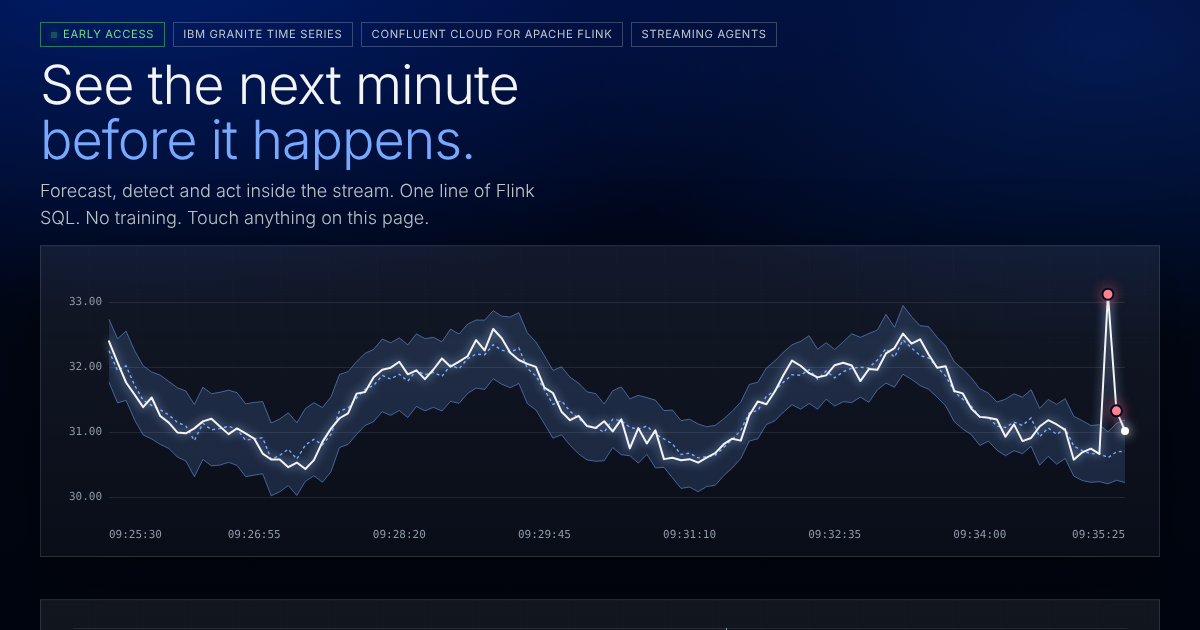
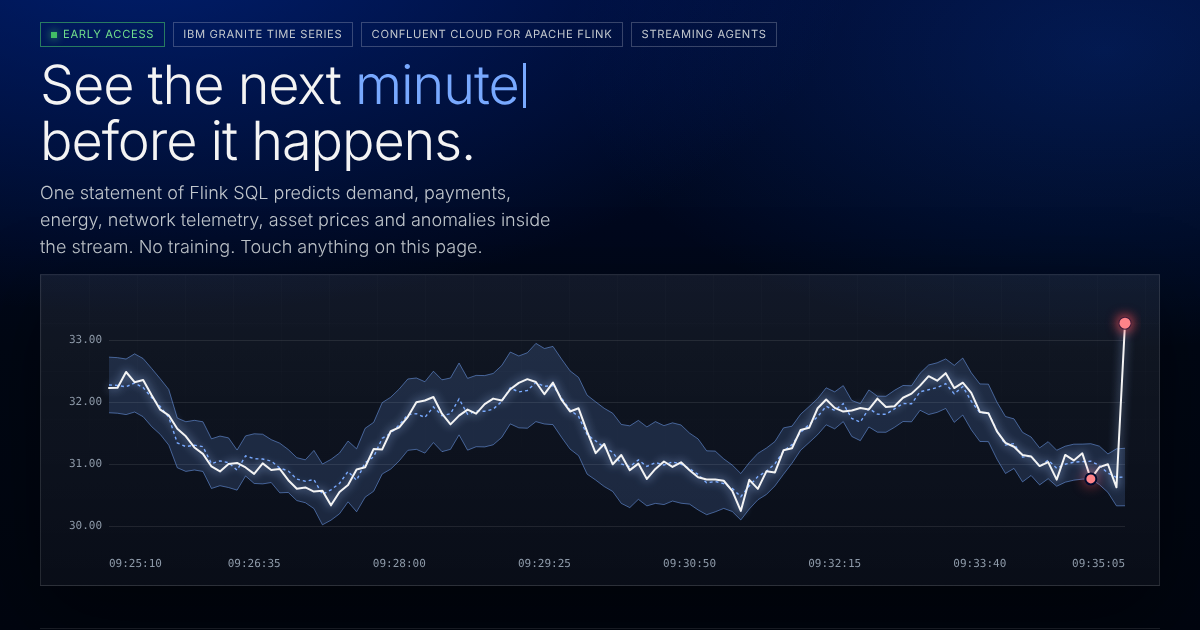
Add rotating hero, stat strip, runs-with marquee, stream-to-decision architecture, six outcome tiles, trust strip and open-vs-managed paths
Claude-Session: https://claude.ai/code/session_01JLcHv6cFAYwFtSfArZfbhX

diff --git a/index.html b/index.html
@@ -156,7 +156,8 @@ canvas.stage-canvas{display:block;width:100%;height:100%;touch-action:none}
 .pill.live{border-color:rgba(66,190,101,.6);color:var(--green-2)}
 .pill.live::before{content:"";width:6px;height:6px;background:var(--green);box-shadow:0 0 8px var(--green);animation:blink 1.6s infinite}
 @keyframes blink{0%,100%{opacity:1}50%{opacity:.35}}
-.h-display{font-size:clamp(2.4rem,6.2vw,5rem);font-weight:300;line-height:1.02;letter-spacing:-.02em;max-width:14ch}
+.h-display{font-size:clamp(2.4rem,6vw,4.8rem);font-weight:300;line-height:1.04;letter-spacing:-.02em;max-width:26ch}
+@media (max-width:600px){.h-display br{display:none}}
 .h-display em{font-style:normal;color:var(--blue-3)}
 .lede{font-size:clamp(1.1rem,1.7vw,1.4rem);font-weight:300;color:var(--ink-2);max-width:48ch}
 .hero .stage{box-shadow:0 30px 80px rgba(0,0,0,.45)}
@@ -386,6 +387,82 @@ details.ref .rb{padding:0 1.1rem 1.1rem;display:grid;gap:1rem}
 .links a:hover{color:var(--ink)}
 .links a::before{content:"\2192";color:var(--blue-3);font-family:var(--font-mono)}
 
+/* topbar + nav stat */
+.topbar{background:linear-gradient(90deg,rgba(15,98,254,.35),rgba(105,41,196,.3));border-bottom:1px solid var(--line);font-size:.8rem;color:var(--ink-2)}
+.topbar .wrap{display:flex;gap:1rem;align-items:center;justify-content:center;min-height:34px;flex-wrap:wrap}
+.topbar b{color:var(--ink);font-weight:500;margin-right:.35rem;border:1px solid rgba(255,255,255,.35);padding:.05rem .4rem;font-size:.7rem;letter-spacing:.06em;text-transform:uppercase}
+.topbar a{color:var(--ink);white-space:nowrap}
+@media (max-width:760px){.topbar{display:none}}
+.nav-stat{display:inline-flex;align-items:baseline;gap:.35rem;font-size:.8rem;color:var(--ink-2);white-space:nowrap;border:1px solid var(--line-2);padding:.3rem .6rem}
+.nav-stat b{font-weight:500;color:var(--ink)}
+.nav-stat:hover{text-decoration:none;color:var(--ink);background:var(--panel-2)}
+@media (max-width:900px){.nav-stat{display:none}}
+
+/* rotating word */
+.h-display .rot{position:relative;white-space:nowrap}
+.h-display .caret{display:inline-block;width:3px;height:.85em;background:var(--blue-3);vertical-align:-.08em;margin-left:.08em;animation:blink .9s steps(1) infinite}
+
+/* hero stats + marquee */
+.stats{display:flex;flex-wrap:wrap;gap:.6rem 2.2rem;margin-top:.4rem}
+.stat{display:grid;gap:.05rem}
+.stat b{font-weight:300;font-size:1.7rem;line-height:1.05;color:var(--ink);font-variant-numeric:tabular-nums}
+.stat span{font-size:.74rem;letter-spacing:.04em;text-transform:uppercase;color:var(--ink-3)}
+.marquee{margin-top:14px;margin-bottom:clamp(40px,5vw,72px);border-top:1px solid var(--line);border-bottom:1px solid var(--line);display:flex;align-items:center;gap:1.5rem;overflow:hidden;min-height:48px}
+.mq-label{flex:none;font-size:.7rem;letter-spacing:.08em;text-transform:uppercase;color:var(--ink-3);padding-right:1.5rem;border-right:1px solid var(--line)}
+.mq-track{flex:1;min-width:0;overflow:hidden;mask-image:linear-gradient(90deg,transparent,#000 6%,#000 94%,transparent);-webkit-mask-image:linear-gradient(90deg,transparent,#000 6%,#000 94%,transparent)}
+.mq-inner{display:flex;gap:2.2rem;width:max-content;animation:mq 46s linear infinite;font-size:.86rem;color:var(--ink-2);white-space:nowrap}
+.mq-inner span{display:inline-flex;align-items:center;gap:.5rem}
+.mq-inner span::before{content:"";width:6px;height:6px;background:var(--blue-2);opacity:.8}
+.marquee:hover .mq-inner{animation-play-state:paused}
+@keyframes mq{to{transform:translateX(-50%)}}
+@media (max-width:760px){.mq-label{display:none}}
+@media (prefers-reduced-motion:reduce){.mq-inner{animation:none}.h-display .caret{animation:none}}
+
+/* architecture */
+.arch{position:relative;display:grid;grid-template-columns:minmax(0,1fr) minmax(0,1.35fr) minmax(0,1fr);gap:clamp(18px,4vw,64px);align-items:start}
+@media (max-width:900px){.arch{grid-template-columns:1fr;gap:18px}}
+.arch-cv{position:absolute;inset:0;width:100%;height:100%;pointer-events:none;z-index:3}
+.arch-col{position:relative;z-index:2;display:grid;gap:8px;align-content:start}
+.arch-h{font-size:.72rem;letter-spacing:.08em;text-transform:uppercase;color:var(--ink-2);display:flex;gap:.6rem;align-items:center;margin-bottom:.2rem}
+.arch-h span{font-family:var(--font-mono);color:var(--blue-3)}
+.arch-node{background:rgba(0,7,20,.75);border:1px solid var(--line-2);padding:.55rem .75rem;font-size:.88rem;color:var(--ink)}
+.arch-f{font-size:.74rem;color:var(--ink-3);margin-top:.3rem}
+.arch-engine{background:linear-gradient(180deg,rgba(0,29,108,.55),rgba(0,13,60,.7));border:1px solid var(--blue-2);box-shadow:0 0 0 1px rgba(69,137,255,.25),0 0 50px rgba(15,98,254,.25);padding:.5rem;display:grid;gap:6px}
+.arch-row{display:grid;grid-template-columns:10px 1fr;gap:.2rem .6rem;align-items:center;background:rgba(0,7,20,.55);border:1px solid var(--line);padding:.55rem .7rem}
+.arch-row i{width:10px;height:10px;background:var(--blue-2);box-shadow:0 0 10px var(--blue-2);grid-row:1/3}
+.arch-row b{font-weight:500;font-size:.9rem;color:var(--ink)}
+.arch-row span{font-size:.74rem;color:var(--ink-3);grid-column:2;line-height:1.35}
+.arch-row.purple i{background:var(--purple);box-shadow:0 0 10px var(--purple)}
+.arch-row.purple{border-color:rgba(190,149,255,.4)}
+.arch-col.mid .arch-f{text-align:center}
+
+/* proof labels + trust */
+.pcard .pk em{font-style:normal;margin-left:.4rem;border:1px solid var(--line-2);padding:.05rem .4rem;font-size:.62rem;color:var(--ink-2);letter-spacing:.06em}
+.pcard .pk{display:flex;flex-wrap:wrap;align-items:center;gap:.25rem}
+.trust{border:1px solid var(--line);background:var(--panel);padding:clamp(16px,2.4vw,26px) clamp(16px,2.4vw,28px);display:grid;gap:1rem}
+.trust-h{font-size:.72rem;letter-spacing:.08em;text-transform:uppercase;color:var(--ink-3)}
+.trust-grid{display:grid;grid-template-columns:repeat(6,minmax(0,1fr));gap:12px}
+@media (max-width:1100px){.trust-grid{grid-template-columns:repeat(3,minmax(0,1fr))}}
+@media (max-width:600px){.trust-grid{grid-template-columns:1fr 1fr}}
+.trust-i{display:grid;gap:.25rem;font-size:.85rem;color:var(--ink);align-content:start}
+.trust-i i{width:12px;height:12px;border:2px solid var(--green-2);box-shadow:0 0 10px rgba(66,190,101,.6);margin-bottom:.2rem}
+.trust-i b{font-weight:500;font-size:.86rem;line-height:1.3}
+.trust-i span{font-size:.75rem;color:var(--ink-3);line-height:1.35}
+
+/* two ways */
+.ways{display:grid;grid-template-columns:1fr 1fr;gap:12px;margin-top:12px}
+@media (max-width:900px){.ways{grid-template-columns:1fr}}
+.way{background:rgba(0,7,20,.5);border:1px solid var(--line);padding:1.2rem 1.1rem 1.1rem;display:grid;gap:.8rem;align-content:start}
+.way.on{border-color:var(--blue-2);box-shadow:0 0 0 1px rgba(69,137,255,.35),0 0 40px rgba(15,98,254,.18);background:rgba(0,29,108,.3)}
+.way .wk{font-size:.7rem;letter-spacing:.08em;text-transform:uppercase;color:var(--ink-3)}
+.way.on .wk{color:var(--blue-3)}
+.way h3{font-size:1.4rem;font-weight:300}
+.way p{color:var(--ink-2);font-size:.9rem}
+.way pre{margin:0;background:rgba(0,0,0,.45);border:1px solid var(--line);padding:.7rem .8rem;font-size:.76rem;line-height:1.5;overflow:auto;color:var(--ink-2)}
+.way pre .k{color:var(--blue-3)}.way pre .f{color:var(--purple)}.way pre .s{color:var(--green-2)}.way pre .n{color:var(--orange)}
+.cta .lede{max-width:40ch}
+.foot .tag{color:var(--ink);font-weight:500}
+
 /* cta band + footer */
 .cta{margin-top:clamp(40px,6vw,80px);border-top:1px solid var(--line);border-bottom:1px solid var(--line);background:linear-gradient(90deg,rgba(15,98,254,.25),rgba(0,29,108,.35));padding:clamp(40px,5vw,72px) 0}
 .cta .wrap{display:flex;flex-wrap:wrap;gap:1.5rem 3rem;align-items:center;justify-content:space-between}
@@ -401,6 +478,7 @@ details.ref .rb{padding:0 1.1rem 1.1rem;display:grid;gap:1rem}
 </head>
 <body>
 <a class="sr" href="#innovation">Skip to content</a>
+<div class="topbar"><div class="wrap"><span><b>New</b> Streaming Agents and the Granite functions are in Early Access on Confluent Cloud.</span><a href="https://events.confluent.io/early-access-flink-features" target="_blank" rel="noopener">Sign up &#8594;</a></div></div>
 <nav class="nav" aria-label="Main">
   <div class="wrap">
     <a class="brand" href="#top"><span class="dot"></span>Real-time intelligence <span class="co">Granite Time Series on Confluent</span></a>
@@ -410,6 +488,7 @@ details.ref .rb{padding:0 1.1rem 1.1rem;display:grid;gap:1rem}
       <a href="#usecases" data-ch="usecases"><b>03</b>Use cases</a>
       <a href="#start" data-ch="start"><b>04</b>Start</a>
     </div>
+    <a class="nav-stat" href="https://huggingface.co/ibm-granite" target="_blank" rel="noopener"><b>44M+</b> downloads</a>
     <a class="btn sm" href="https://events.confluent.io/early-access-flink-features" target="_blank" rel="noopener">Early Access <svg viewBox="0 0 16 16" aria-hidden="true"><path d="M2 8h11M9 3l5 5-5 5" fill="none" stroke="currentColor" stroke-width="1.6"/></svg></a>
   </div>
 </nav>
@@ -419,8 +498,15 @@ details.ref .rb{padding:0 1.1rem 1.1rem;display:grid;gap:1rem}
   <div class="wrap" id="top">
     <div class="hero-head">
       <div class="pills"><span class="pill live">Early Access</span><span class="pill">IBM Granite Time Series</span><span class="pill">Confluent Cloud for Apache Flink</span><span class="pill">Streaming Agents</span></div>
-      <h1 class="h-display">See the next minute <em>before it happens.</em></h1>
-      <p class="lede">Forecast, detect and act inside the stream. One line of Flink SQL. No training. Touch anything on this page.</p>
+      <h1 class="h-display">See the next <em class="rot"><span id="rot">stockout</span><i class="caret" aria-hidden="true"></i></em><br>before it happens.</h1>
+      <p class="lede">One statement of Flink SQL predicts demand, payments, energy, network telemetry, asset prices and anomalies inside the stream. No training. Touch anything on this page.</p>
+      <div class="stats" id="hero-stats">
+        <div class="stat"><b>44M+</b><span>model downloads</span></div>
+        <div class="stat"><b>#1</b><span>GIFT-Eval, zero-shot</span></div>
+        <div class="stat"><b>10 to 60×</b><span>faster throughput</span></div>
+        <div class="stat"><b>millions</b><span>of series, one statement</span></div>
+        <div class="stat"><b>seconds</b><span>to predict, not days</span></div>
+      </div>
     </div>
 
     <div class="stage" id="st-live">
@@ -464,6 +550,7 @@ details.ref .rb{padding:0 1.1rem 1.1rem;display:grid;gap:1rem}
         <div class="sqlline"><code id="live-sql"></code><button class="btn sm ghost" id="live-copy">Copy SQL</button></div>
       </div>
     </div>
+    <div class="marquee" aria-label="Runs with"><div class="mq-label">Runs where your stream runs</div><div class="mq-track"><div class="mq-inner" id="mq"></div></div></div>
   </div>
 </header>
 
@@ -574,6 +661,50 @@ FROM pos_sales;</code></pre></div>
           </div>
         </details>
       </div>
+    </div>
+
+    <div class="chapter-head" style="margin-top:clamp(40px,5vw,72px)">
+      <h2>One stream. Every decision.</h2>
+      <p>Connect the systems where your series already live. Flink runs the models on every event. Decisions land as topics, tables, alerts and agent calls.</p>
+    </div>
+
+    <div class="stage" id="st-arch">
+      <div class="stage-body">
+        <div class="arch" id="arch">
+          <canvas class="arch-cv" id="arch-cv" aria-hidden="true"></canvas>
+          <div class="arch-col" id="arch-in">
+            <div class="arch-h"><span>01</span>Streams in</div>
+            <div class="arch-node">POS and e-commerce</div>
+            <div class="arch-node">Card payments</div>
+            <div class="arch-node">SCADA and historians</div>
+            <div class="arch-node">Network telemetry</div>
+            <div class="arch-node">Market data</div>
+            <div class="arch-node">Meters and IoT</div>
+            <div class="arch-f">120+ connectors, Schema Registry contracts</div>
+          </div>
+          <div class="arch-col mid" id="arch-mid">
+            <div class="arch-h"><span>02</span>Confluent Cloud</div>
+            <div class="arch-engine">
+              <div class="arch-row"><i></i><b>Kafka topics</b><span>every series, every event, in order</span></div>
+              <div class="arch-row"><i></i><b>Flink SQL</b><span>AI_FORECAST · AI_DETECT_ANOMALIES · TS_EMBED · TS_SEARCH · TS_OPTIMIZE</span></div>
+              <div class="arch-row"><i></i><b>Granite Time Series models</b><span>hosted by Confluent, zero-shot, your data stays in your org</span></div>
+              <div class="arch-row purple"><i></i><b>Streaming Agents</b><span>CREATE TOOL · CREATE AGENT · AI_RUN_AGENT, gates for experts</span></div>
+            </div>
+            <div class="arch-f">one statement per decision, billed as Flink compute</div>
+          </div>
+          <div class="arch-col" id="arch-out">
+            <div class="arch-h"><span>03</span>Decisions out</div>
+            <div class="arch-node">Purchase orders topic</div>
+            <div class="arch-node">Holds and alerts</div>
+            <div class="arch-node">Tickets with a cause</div>
+            <div class="arch-node">Setpoint recommendations</div>
+            <div class="arch-node">Tableflow to Iceberg</div>
+            <div class="arch-node">Apps, BI and agents via MCP</div>
+            <div class="arch-f">consumed as events, tables or tool calls</div>
+          </div>
+        </div>
+      </div>
+      <div class="stage-foot"><div class="readouts"><div class="readout"><b>1</b><span>statement</span></div><div class="readout"><b id="arch-count">0</b><span>decisions in flight</span></div><div class="readout"><b class="purple">0</b><span>models to train</span></div></div><div class="hint">Nothing leaves Confluent Cloud. Models run next to the topic.</div></div>
     </div>
 
     <div class="chapter-head" style="margin-top:clamp(40px,5vw,72px)">
@@ -714,16 +845,31 @@ FROM pos_sales;</code></pre></div>
     </div>
 
     <div class="chapter-head" style="margin-top:clamp(40px,5vw,72px)">
-      <h2>Proof in production.</h2>
-      <p>Three engagements on live operational data.</p>
+      <h2>Real outcomes on real streams.</h2>
+      <p>Engagements, demos and reference designs. Client identities withheld.</p>
     </div>
     <div class="stage" id="st-proof">
       <div class="stage-body">
         <div class="proof" id="proof">
-          <div class="pcard"><span class="pk">Telco · network operations</span><b>0<small> tickets without a cause</small></b><canvas data-spark="telco"></canvas><div class="pt">IBM Network Intelligence, Granite TSPulse</div><div class="pd">Telemetry in, anomalies out, agentic root cause, remediation human-in-the-loop or autonomous. Tickets open only when a cause is confirmed.</div><div class="tags"><span>TSPulse</span><span>agentic RCA</span><span>MCP tools</span></div></div>
-          <div class="pcard"><span class="pk">Cement · production</span><b data-count="99" data-prefix="93 → " data-suffix="%">93%</b><canvas data-spark="cement"></canvas><div class="pt">Process and quality models per mill</div><div class="pd">24 to 30 regression models became 2 foundation models. 6 months became 8 to 10 weeks. $2 per ton EBITDA, tens to hundreds of millions in benefit.</div><div class="tags"><span>fine-tuned per mill</span><span>setpoints</span></div></div>
-          <div class="pcard"><span class="pk">Financial services · markets</span><b data-count="10" data-prefix="~" data-suffix="% RMSE">~0%</b><canvas data-spark="fin"></canvas><div class="pt">Multivariate asset forecasts, Granite TTM</div><div class="pd">Per asset class, against the incumbent model. Zero-shot first, tuned where the backtest paid.</div><div class="tags"><span>TTM</span><span>multivariate</span><span>backtested</span></div></div>
+          <div class="pcard"><span class="pk">Telco · network operations <em>production</em></span><b>0<small> tickets without a cause</small></b><canvas data-spark="telco"></canvas><div class="pt">IBM Network Intelligence, Granite TSPulse</div><div class="pd">Telemetry in, anomalies out, agentic root cause, remediation human-in-the-loop or autonomous.</div><div class="tags"><span>TSPulse</span><span>agentic RCA</span><span>MCP tools</span></div></div>
+          <div class="pcard"><span class="pk">Cement · production <em>production</em></span><b data-count="99" data-prefix="93 → " data-suffix="%">93%</b><canvas data-spark="cement"></canvas><div class="pt">Process and quality models per mill</div><div class="pd">30 regression models became 2. 6 months became 8 to 10 weeks. $2 per ton EBITDA, tens to hundreds of millions in benefit.</div><div class="tags"><span>fine-tuned per mill</span><span>setpoints</span></div></div>
+          <div class="pcard"><span class="pk">Financial services · markets <em>production</em></span><b data-count="10" data-prefix="~" data-suffix="% RMSE">~0%</b><canvas data-spark="fin"></canvas><div class="pt">Multivariate asset forecasts, Granite TTM</div><div class="pd">Per asset class, against the incumbent model. Zero-shot first, tuned where the backtest paid.</div><div class="tags"><span>TTM</span><span>multivariate</span><span>backtested</span></div></div>
+          <div class="pcard"><span class="pk">Grocery · planning <em>reference design</em></span><b data-count="10" data-prefix="+5 to " data-suffix=" pts">+0 pts</b><canvas data-spark="grocery"></canvas><div class="pt">Every SKU in every store, hourly</div><div class="pd">Around 100,000 SKUs across thousands of stores. Reorder point and purchase order raised in the stream from the P10 to P90 band.</div><div class="tags"><span>AI_FORECAST</span><span>P10 to P90</span><span>Tableflow</span></div></div>
+          <div class="pcard"><span class="pk">Retail · stores <em>demo</em></span><b data-count="1096" data-suffix=" days">0 days</b><canvas data-spark="retail"></canvas><div class="pt">Scored by one running statement</div><div class="pd">A stockout dip, an unplanned spike and a feed gap flagged the same day. 99.9% band, 512-day context, no labels.</div><div class="tags"><span>AI_DETECT_ANOMALIES</span><span>streaming mode</span></div></div>
+          <div class="pcard"><span class="pk">Process industries <em>solution</em></span><b>2<small> to </small>5×</b><canvas data-spark="opt"></canvas><div class="pt">Faster process optimization</div><div class="pd">Steel, cement, paper. Forecasts with control variables, a setpoint optimizer and guardrails, operators approve at the gate.</div><div class="tags"><span>TS_OPTIMIZE</span><span>workbench</span></div></div>
         </div>
+      </div>
+    </div>
+
+    <div class="trust" id="trust">
+      <div class="trust-h">Governed by design</div>
+      <div class="trust-grid">
+        <div class="trust-i"><i></i><b>RBAC on every function</b><span>who can call what, per topic</span></div>
+        <div class="trust-i"><i></i><b>Schema Registry contracts</b><span>the shape of every stream, enforced</span></div>
+        <div class="trust-i"><i></i><b>Audit log</b><span>every agent call written down</span></div>
+        <div class="trust-i"><i></i><b>Five expert gates</b><span>data, model, accuracy, release, drift</span></div>
+        <div class="trust-i"><i></i><b>Runs inside your Confluent Cloud org</b><span>models hosted next to the topic</span></div>
+        <div class="trust-i"><i></i><b>Apache 2.0 models</b><span>open weights on Hugging Face</span></div>
       </div>
     </div>
   </div>
@@ -863,6 +1009,19 @@ FROM your_topic;</code></pre>
       <div class="stile"><span class="sn">03</span><h3>Book a working session</h3><p>Bring a topic and a decision. IBM and Confluent teams, one afternoon, your data.</p><a class="btn sm ghost" href="#briefing">Build the note <svg viewBox="0 0 16 16" aria-hidden="true"><path d="M8 2v10M4 8l4 4 4-4" fill="none" stroke="currentColor" stroke-width="1.6"/></svg></a></div>
     </div>
 
+    <div class="ways" id="ways">
+      <div class="way"><span class="wk">Open source · free forever</span><h3>Run the models yourself</h3><p>Granite Time Series models under Apache 2.0 on Hugging Face. The granite-tsfm library, notebooks and benchmarks on GitHub. CPU is enough for TTM and TSPulse.</p>
+        <pre><code class="py">pip install granite-tsfm
+from tsfm_public import TinyTimeMixerForPrediction
+model = TinyTimeMixerForPrediction.from_pretrained(
+  "ibm-granite/granite-timeseries-ttm-r3")</code></pre>
+        <div class="btn-row"><a class="btn sm ghost" href="https://huggingface.co/ibm-granite" target="_blank" rel="noopener">Hugging Face</a><a class="btn sm ghost" href="https://github.com/ibm-granite/granite-tsfm" target="_blank" rel="noopener">GitHub</a></div></div>
+      <div class="way on"><span class="wk">Managed on Confluent · Early Access</span><h3>Call them from Flink SQL</h3><p>Models hosted by Confluent, no infrastructure, no training loop. AI_FORECAST and AI_DETECT_ANOMALIES today, TS_EMBED, TS_SEARCH and TS_OPTIMIZE next, Streaming Agents on top. Billed as Flink compute.</p>
+        <pre><code class="sql">AI_FORECAST(value, event_time,
+  JSON_OBJECT('model' VALUE 'ttm', 'horizon' VALUE 12))</code></pre>
+        <div class="btn-row"><a class="btn sm" href="https://events.confluent.io/early-access-flink-features" target="_blank" rel="noopener">Join Early Access</a><a class="btn sm ghost" href="#briefing">Book a session</a></div></div>
+    </div>
+
     <div class="stage" id="briefing" style="margin-top:12px">
       <div class="stage-top"><div class="stage-title"><h3>Briefing note</h3><p>Fill in four lines. Copy the note into an email to your IBM or Confluent contact.</p></div></div>
       <div class="stage-body">
@@ -970,13 +1129,13 @@ FROM motor_telemetry;</code></pre></div>
 
 <div class="cta">
   <div class="wrap">
-    <h2>Your stream already knows what happens next. Let it say so.</h2>
+    <div><h2>The future of forecasting is streaming.</h2><p class="lede" style="margin-top:.5rem">Every event is a decision. Make it before the next one arrives.</p></div>
     <div class="btn-row"><a class="btn" href="https://events.confluent.io/early-access-flink-features" target="_blank" rel="noopener">Join Early Access <svg viewBox="0 0 16 16" aria-hidden="true"><path d="M2 8h11M9 3l5 5-5 5" fill="none" stroke="currentColor" stroke-width="1.6"/></svg></a><button class="btn ghost" id="share-link">Share this page</button><span class="toast" id="share-toast"></span></div>
   </div>
 </div>
 <footer class="foot">
   <div class="wrap">
-    <div class="row"><span>IBM Granite Time Series models on Confluent Cloud for Apache Flink. Early Access, October 2026.</span></div>
+    <div class="row"><span class="tag">Every event is a decision.</span><span>IBM Granite Time Series models on Confluent Cloud for Apache Flink. Early Access, October 2026.</span></div>
     <div class="row"><a href="https://huggingface.co/ibm-granite" target="_blank" rel="noopener">Hugging Face</a><a href="https://github.com/ibm-granite/granite-tsfm" target="_blank" rel="noopener">GitHub</a><a href="https://docs.confluent.io/cloud/current/ai/builtin-functions/forecast.html" target="_blank" rel="noopener">Confluent docs</a><a href="#reference">Technical reference</a></div>
     <div class="row"><span>Simulations on this page run in your browser and are illustrative. Benchmark and case figures from IBM and Confluent materials. IBM, Granite, Confluent, Apache Flink and Apache Kafka are trademarks of their owners. Not an official IBM or Confluent site.</span></div>
   </div>
@@ -1001,6 +1160,7 @@ const FN='AI_FORECAST|AI_DETECT_ANOMALIES|AI_RUN_AGENT|TS_EMBED|TS_SEARCH|TS_OPT
 const TOK=new RegExp("(--[^\\n]*)|('(?:[^'\\\\]|\\\\.)*')|(\\b(?:"+FN+")\\b)|(\\b\\d+(?:[\\.,]\\d+)?\\b)|(\\b(?:"+KW+")\\b)","g");
 function highlight(sql){return esc(sql).replace(TOK,(m,c,s,f,n,k)=>{if(c)return'<span class="c">'+m+'</span>';if(s)return'<span class="s">'+m+'</span>';if(f)return'<span class="f">'+m+'</span>';if(n)return'<span class="n">'+m+'</span>';return'<span class="k">'+m+'</span>';});}
 $$('code.sql').forEach(el=>{el.innerHTML=highlight(el.textContent);});
+$$('code.py').forEach(el=>{el.innerHTML=esc(el.textContent).replace(/(&quot;[^&]*&quot;|"[^"]*")/g,'<span class="s">$1</span>').replace(/\b(pip|install|from|import)\b/g,'<span class="k">$1</span>');});
 function copyText(text,btn,done){const label=btn?btn.textContent:'';const ok=()=>{if(btn){btn.textContent='Copied';setTimeout(()=>btn.textContent=label,1600);}if(done)done(true);};const fail=()=>{if(done)done(false);};if(navigator.clipboard&&navigator.clipboard.writeText){navigator.clipboard.writeText(text).then(ok,fail);}else fail();}
 function selectEl(el){try{const r=document.createRange();r.selectNodeContents(el);const s=window.getSelection();s.removeAllRanges();s.addRange(r);}catch(e){}}
 $$('.codebox').forEach(box=>{const btn=$('.copy',box),pre=$('pre',box);if(!btn||!pre)return;btn.addEventListener('click',()=>copyText(pre.textContent,btn,ok=>{if(!ok){selectEl(pre);btn.textContent='Select and copy';setTimeout(()=>btn.textContent='Copy SQL',2000);}}));});
@@ -1285,7 +1445,7 @@ function hoverIndex(layout,cv,ev){if(!layout)return -1;const rect=cv.c.getBoundi
 })();
 
 /* ============ 02 dials, proof count-ups ============ */
-function countUp(b){const target=Number(b.dataset.count),pre=b.dataset.prefix||'',suf=b.dataset.suffix||'';const t0=performance.now(),dur=reduced?1:1400;function f(t){const u=clamp((t-t0)/dur,0,1);b.textContent=pre+Math.round(target*ease(u))+suf;if(u<1)requestAnimationFrame(f);}requestAnimationFrame(f);}
+function countUp(b){const target=Number(b.dataset.count),pre=b.dataset.prefix||'',suf=b.dataset.suffix||'';const t0=performance.now(),dur=reduced?1:1400;function f(t){const u=clamp((t-t0)/dur,0,1);b.textContent=pre+fmtInt(target*ease(u))+suf;if(u<1)requestAnimationFrame(f);}requestAnimationFrame(f);}
 (function(){const d=$('#dials');if(d)once(d,()=>{d.classList.add('in');$$('b[data-count]',d).forEach(countUp);});})();
 (function(){
   const el=$('#st-proof');if(!el)return;
@@ -1293,6 +1453,9 @@ function countUp(b){const target=Number(b.dataset.count),pre=b.dataset.prefix||'
     if(type==='telco'){const v=[];for(let i=0;i<n;i++)v.push(0.35+0.12*Math.sin(i/3)+0.05*gauss()+(i===22||i===41?0.45:0));ctx.strokeStyle=C.ink2;ctx.lineWidth=1.4;ctx.beginPath();v.forEach((y,i)=>i?ctx.lineTo(X(i),Y(y)):ctx.moveTo(X(i),Y(y)));ctx.stroke();[22,41].forEach(i=>{ctx.fillStyle=C.red2;ctx.shadowColor=C.red;ctx.shadowBlur=10;ctx.beginPath();ctx.arc(X(i),Y(v[i]),3.5,0,Math.PI*2);ctx.fill();ctx.shadowBlur=0;});}
     if(type==='cement'){const a=[],f=[];for(let i=0;i<n;i++){a.push(0.5+0.25*Math.sin(i/6)+0.05*gauss());f.push(0.5+0.25*Math.sin(i/6)+0.012*gauss());}ctx.strokeStyle=C.ink2;ctx.lineWidth=1.4;ctx.beginPath();a.forEach((y,i)=>i?ctx.lineTo(X(i),Y(y)):ctx.moveTo(X(i),Y(y)));ctx.stroke();ctx.strokeStyle=C.green2;ctx.setLineDash([3,3]);ctx.beginPath();f.forEach((y,i)=>i?ctx.lineTo(X(i),Y(y)):ctx.moveTo(X(i),Y(y)));ctx.stroke();ctx.setLineDash([]);}
     if(type==='fin'){const v=[];let x=0.5;for(let i=0;i<n;i++){x=clamp(x+0.05*gauss(),0.1,0.9);v.push(x);}ctx.strokeStyle=C.ink2;ctx.lineWidth=1.4;ctx.beginPath();v.forEach((y,i)=>i?ctx.lineTo(X(i),Y(y)):ctx.moveTo(X(i),Y(y)));ctx.stroke();ctx.strokeStyle=C.blue3;ctx.setLineDash([3,3]);ctx.beginPath();for(let i=40;i<n;i++){const y=v[40]+(v[i]-v[40])*0.6;i===40?ctx.moveTo(X(i),Y(y)):ctx.lineTo(X(i),Y(y));}ctx.stroke();ctx.setLineDash([]);}
+    if(type==='grocery'){const f=i=>0.45+0.25*Math.sin(i/1.1)+0.08*Math.sin(i/7);const sp=38;ctx.strokeStyle=C.ink2;ctx.lineWidth=1.4;ctx.beginPath();for(let i=0;i<=sp;i++){const y=Y(clamp(f(i)+0.05*gauss(),0.05,0.95));i?ctx.lineTo(X(i),y):ctx.moveTo(X(i),y);}ctx.stroke();ctx.fillStyle='rgba(120,169,255,.22)';ctx.beginPath();ctx.moveTo(X(sp),Y(f(sp)));for(let i=sp;i<n;i++)ctx.lineTo(X(i),Y(f(i)+0.12));for(let i=n-1;i>=sp;i--)ctx.lineTo(X(i),Y(f(i)-0.12));ctx.closePath();ctx.fill();ctx.strokeStyle=C.blue3;ctx.setLineDash([3,3]);ctx.beginPath();for(let i=sp;i<n;i++){i===sp?ctx.moveTo(X(i),Y(f(i))):ctx.lineTo(X(i),Y(f(i)));}ctx.stroke();ctx.setLineDash([]);}
+    if(type==='retail'){const v=[];for(let i=0;i<n;i++){let y=0.5+0.22*Math.sin(i*2*Math.PI/7)+0.04*gauss();if(i===20||i===21)y=0.12;if(i===38)y=0.95;if(i===50)y=0.02;v.push(clamp(y,0.02,0.98));}ctx.fillStyle='rgba(120,169,255,.14)';ctx.beginPath();for(let i=0;i<n;i++){const y=Y(0.5+0.22*Math.sin(i*2*Math.PI/7)+0.2);i?ctx.lineTo(X(i),y):ctx.moveTo(X(i),y);}for(let i=n-1;i>=0;i--)ctx.lineTo(X(i),Y(0.5+0.22*Math.sin(i*2*Math.PI/7)-0.2));ctx.closePath();ctx.fill();ctx.strokeStyle=C.ink2;ctx.lineWidth=1.4;ctx.beginPath();v.forEach((y,i)=>i?ctx.lineTo(X(i),Y(y)):ctx.moveTo(X(i),Y(y)));ctx.stroke();[20,21,38,50].forEach(i=>{ctx.fillStyle=C.red2;ctx.shadowColor=C.red;ctx.shadowBlur=10;ctx.beginPath();ctx.arc(X(i),Y(v[i]),3.2,0,Math.PI*2);ctx.fill();ctx.shadowBlur=0;});}
+    if(type==='opt'){const img=ctx.createLinearGradient(0,0,W,0);img.addColorStop(0,'rgba(0,45,156,.6)');img.addColorStop(0.6,'rgba(8,189,186,.5)');img.addColorStop(1,'rgba(241,194,27,.6)');ctx.fillStyle=img;ctx.fillRect(2,4,W-4,H-8);ctx.strokeStyle='#fff';ctx.lineWidth=1.5;ctx.setLineDash([2,3]);ctx.beginPath();ctx.moveTo(X(4),Y(0.2));ctx.quadraticCurveTo(X(30),Y(0.85),X(52),Y(0.55));ctx.stroke();ctx.setLineDash([]);ctx.fillStyle='#fff';ctx.beginPath();ctx.arc(X(4),Y(0.2),3,0,Math.PI*2);ctx.fill();ctx.strokeStyle=C.yellow;ctx.beginPath();ctx.arc(X(52),Y(0.55),5,0,Math.PI*2);ctx.stroke();}
   }
   function all(){$$('canvas[data-spark]',el).forEach(c=>spark(c,c.dataset.spark));}
   reg({el,resize:all});all();
@@ -1478,6 +1641,57 @@ function countUp(b){const target=Number(b.dataset.count),pre=b.dataset.prefix||'
     $('#note-out').textContent=txt;$('#note-out').hidden=false;$('#copy-note').hidden=false;$('#note-toast').textContent='';$('#note-out').scrollIntoView({behavior:'smooth',block:'nearest'});});
     $('#copy-note').addEventListener('click',()=>{const pre=$('#note-out');copyText(pre.textContent,$('#copy-note'),ok=>{$('#note-toast').textContent=ok?'Copied. Paste it into an email to your IBM or Confluent contact.':'Copy is blocked here. The text is selected, use your keyboard shortcut.';if(!ok)selectEl(pre);});});}
   const share=$('#share-link');if(share)share.addEventListener('click',()=>{if(navigator.share){navigator.share({title:document.title,url:location.href}).catch(()=>{});return;}copyText(location.href,null,ok=>{$('#share-toast').textContent=ok?'Link copied.':'Copy the address from your browser bar.';});});
+})();
+
+/* ============ hero: rotating word + marquee ============ */
+(function(){
+  const el=$('#rot');if(!el)return;
+  const words=['stockout','fraud','outage','kiln drift','grid peak','price swing','anomaly','minute'];
+  if(reduced){el.textContent='minute';return;}
+  let i=0,typing=false;
+  function type(word,done){let k=0;typing=true;const tick=()=>{el.textContent=word.slice(0,++k);if(k<word.length)setTimeout(tick,55);else{typing=false;done();}};tick();}
+  function erase(done){const tick=()=>{el.textContent=el.textContent.slice(0,-1);if(el.textContent.length)setTimeout(tick,28);else done();};tick();}
+  function cycle(){setTimeout(()=>erase(()=>{i=(i+1)%words.length;type(words[i],cycle);}),2400);}
+  cycle();
+  const mq=$('#mq');if(mq){const items=['Confluent Cloud','Apache Flink','Apache Kafka','Schema Registry','Tableflow','Apache Iceberg','Hugging Face','granite-tsfm','Streaming Agents','Confluent MCP','pgvector','Claude Code','IBM Bob','Codex','AWS · Azure · GCP'];const html=items.map(t=>'<span>'+t+'</span>').join('');mq.innerHTML=html+html;}
+})();
+
+/* ============ architecture particles ============ */
+(function(){
+  const el=$('#st-arch');if(!el)return;
+  const arch=$('#arch'),cv=new Cv($('#arch-cv'));
+  const ins=$$('#arch-in .arch-node'),outs=$$('#arch-out .arch-node'),rows=$$('#arch-mid .arch-row');
+  let A=null;const parts=[];let count=0;
+  function anchors(){const ar=arch.getBoundingClientRect();const rel=r=>({l:r.left-ar.left,r:r.right-ar.left,t:r.top-ar.top,b:r.bottom-ar.top,cx:r.left-ar.left+r.width/2,cy:r.top-ar.top+r.height/2});const stacked=window.innerWidth<=900;
+    A={stacked,ins:ins.map(n=>rel(n.getBoundingClientRect())),outs:outs.map(n=>rel(n.getBoundingClientRect())),rows:rows.map(n=>rel(n.getBoundingClientRect())),eng:rel($('#arch-mid .arch-engine').getBoundingClientRect())};}
+  function bez(p0,p1,p2,p3,t){const u=1-t;return {x:u*u*u*p0.x+3*u*u*t*p1.x+3*u*t*t*p2.x+t*t*t*p3.x,y:u*u*u*p0.y+3*u*u*t*p1.y+3*u*t*t*p2.y+t*t*t*p3.y};}
+  function spawn(){const i=Math.floor(Math.random()*A.ins.length),o=Math.floor(Math.random()*A.outs.length);parts.push({i,o,t:0,speed:0.0022+Math.random()*0.0012,row:0});}
+  function rail(pin,pout,u){const R=A.rows,x=R[0].l+16,y0=R[0].cy,y1=R[R.length-1].cy;if(u<0.15){const v=u/0.15;return {pt:{x:lerp(pin.x,x,v),y:lerp(pin.y,y0,v)},phase:1,row:0};}if(u<0.85){const v=(u-0.15)/0.7;return {pt:{x,y:lerp(y0,y1,v)},phase:1,row:Math.min(R.length-1,Math.floor(v*R.length))};}const v=(u-0.85)/0.15;return {pt:{x:lerp(x,pout.x,v),y:lerp(y1,pout.y,v)},phase:1,row:R.length-1};}
+  function pos(p){const s=A.ins[p.i],d=A.outs[p.o],e=A.eng;
+    if(!A.stacked){
+      const t=p.t;
+      if(t<0.3){const u=t/0.3;return {pt:bez({x:s.r,y:s.cy},{x:s.r+(e.l-s.r)*0.5,y:s.cy},{x:e.l-(e.l-s.r)*0.4,y:e.cy},{x:e.l,y:e.cy},u),phase:0};}
+      if(t<0.6){const u=(t-0.3)/0.3;return rail({x:e.l,y:e.cy},{x:e.r,y:e.cy},u);}
+      const u=(t-0.6)/0.4;return {pt:bez({x:e.r,y:e.cy},{x:e.r+(d.l-e.r)*0.4,y:e.cy},{x:d.l-(d.l-e.r)*0.5,y:d.cy},{x:d.l,y:d.cy},u),phase:2};
+    }else{
+      const t=p.t;
+      if(t<0.3){const u=t/0.3;return {pt:bez({x:s.cx,y:s.b},{x:s.cx,y:s.b+(e.t-s.b)*0.5},{x:e.cx,y:e.t-(e.t-s.b)*0.4},{x:e.cx,y:e.t},u),phase:0};}
+      if(t<0.6){const u=(t-0.3)/0.3;return rail({x:e.cx,y:e.t},{x:e.cx,y:e.b},u);}
+      const u=(t-0.6)/0.4;return {pt:bez({x:e.cx,y:e.b},{x:e.cx,y:e.b+(d.t-e.b)*0.5},{x:d.cx,y:d.t-(d.t-e.b)*0.4},{x:d.cx,y:d.t},u),phase:2};
+    }}
+  let acc=0;
+  reg({el,resize(){cv.fit();anchors();},update(dt){if(!A)anchors();acc+=dt;const every=reduced?1400:330;while(acc>every){acc-=every;if(parts.length<26)spawn();}
+      for(let k=parts.length-1;k>=0;k--){const p=parts[k];p.t+=p.speed*dt/16;if(p.t>=1){parts.splice(k,1);count++;}}
+      $('#arch-count').textContent=parts.filter(p=>p.t>0.3).length;},
+    draw(){if(!A||!cv.W)return;const ctx=cv.ctx;ctx.clearRect(0,0,cv.W,cv.H);
+      /* faint lanes */
+      ctx.strokeStyle='rgba(120,169,255,.10)';ctx.lineWidth=1;
+      const e=A.eng;A.ins.forEach(s=>{ctx.beginPath();if(!A.stacked){ctx.moveTo(s.r,s.cy);ctx.bezierCurveTo(s.r+(e.l-s.r)*0.5,s.cy,e.l-(e.l-s.r)*0.4,e.cy,e.l,e.cy);}else{ctx.moveTo(s.cx,s.b);ctx.bezierCurveTo(s.cx,s.b+(e.t-s.b)*0.5,e.cx,e.t-(e.t-s.b)*0.4,e.cx,e.t);}ctx.stroke();});
+      A.outs.forEach(d=>{ctx.beginPath();if(!A.stacked){ctx.moveTo(e.r,e.cy);ctx.bezierCurveTo(e.r+(d.l-e.r)*0.4,e.cy,d.l-(d.l-e.r)*0.5,d.cy,d.l,d.cy);}else{ctx.moveTo(e.cx,e.b);ctx.bezierCurveTo(e.cx,e.b+(d.t-e.b)*0.5,d.cx,d.t-(d.t-e.b)*0.4,d.cx,d.t);}ctx.stroke();});
+      parts.forEach(p=>{const q=pos(p);const c=q.phase===0?C.blue3:q.phase===1?(q.row>=3?C.purple:'#fff'):C.green2;ctx.save();ctx.shadowColor=q.phase===1&&q.row<3?C.blue2:c;ctx.shadowBlur=14;ctx.fillStyle=c;ctx.beginPath();ctx.arc(q.pt.x,q.pt.y,q.phase===1?4.5:3.2,0,Math.PI*2);ctx.fill();ctx.restore();});
+      rows.forEach((r,i)=>{const lit=parts.some(p=>{const q=pos(p);return q.phase===1&&q.row===i;});r.style.borderColor=lit?(i===3?'rgba(190,149,255,.8)':'rgba(69,137,255,.8)'):'';});
+    }});
+  anchors();
 })();
 
 /* ============ nav scroll spy ============ */
